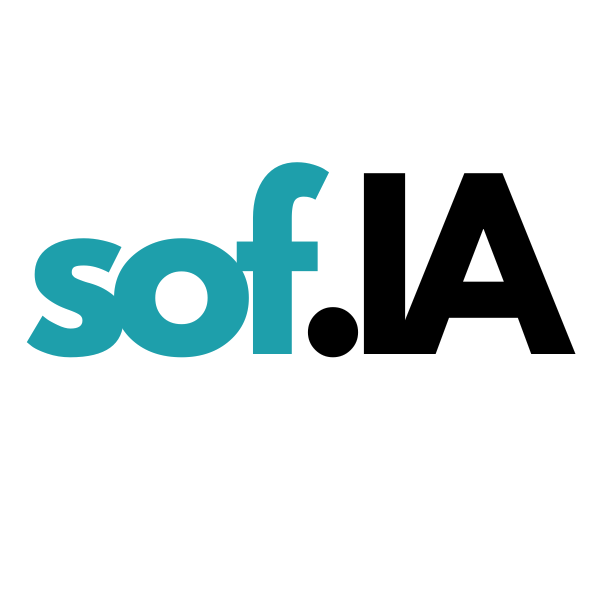
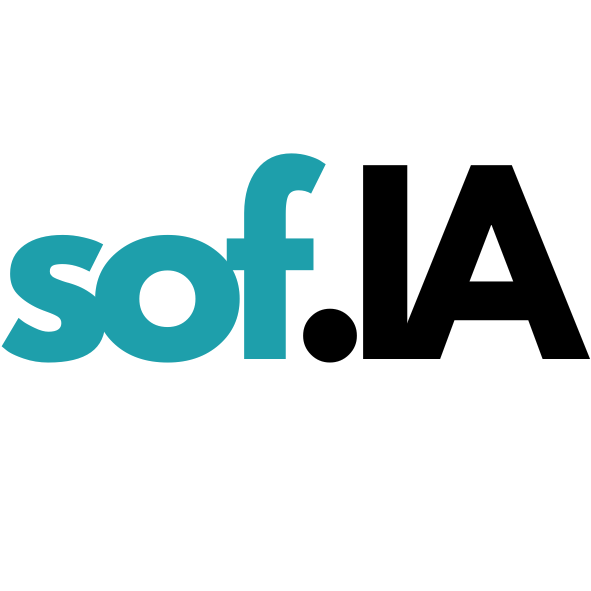
3

diff --git a/index.html b/index.html
@@ -8,7 +8,7 @@
     <!-- --------- CSS ---------- -->
     <link rel="stylesheet" href="assets/css/style.css">
     <!-- --------- FAVICON ---------- -->
-    <link rel="shortcut icon" href="assets/images/sofAI.png" type="image/x-icon">
+    <link rel="shortcut icon" href="assets/images/sof_AI.png" type="image/x-icon">
     <title>Portfolio | SofiaBosch</title>
 </head>
 <body>
@@ -16,8 +16,8 @@
     <!-- --------------- HEADER --------------- -->
       <nav id="header">
         <div class="nav-logo">
-            <p class="nav-name">Sof</p>
-            <span>.IA</span>
+            <p class="nav-name">Sof    IA</p>
+            <span>.</span>
             <!-- <p class="nav-name2">IA</p> -->
         </div>
         <div class="nav-menu" id="myNavMenu">
@@ -41,7 +41,7 @@
             </ul>
         </div>
         <div class="nav-button">
-            <button class="btn" href= "assets/pdf/ejemplo_cv.pdf">Download CV <i class="uil uil-file-alt"></i></button>
+            <button class="btn" href= "assets/pdf/ejemplo_cv.pdf"  dowload="CV_SofiaBosch">Download CV <i class="uil uil-file-alt"></i></button>
         </div>
         <div class="nav-menu-btn">
             <i class="uil uil-bars" onclick="myMenuFunction()"></i>
@@ -64,11 +64,11 @@
             </div>
             <div class="featured-text-btn">
                 <button class="btn blue-btn">Hire Me</button>
-                <button class="btn" href= "assets/pdf/ejemplo_cv.pdf">Download CV <i class="uil uil-file-alt"></i></button>
+                <button class="btn" href= "assets/pdf/ejemplo_cv.pdf" dowload="CV_SofiaBosch">Download CV <i class="uil uil-file-alt"></i></button>
             </div>
             <div class="social_icons">
                 <!-- <div class="icon"><i class="uil uil-instagram"></i></div> -->
-                <div class="icon"><i class="uil uil-linkedin-alt"></i></div>
+                <div class="icon"><i class="uil uil-linkedin-alt" href="www.linkedin.com/in/sofia-bosch-pastor-a764b5137"></i></div>
                 <!-- <div class="icon"><i class="uil uil-dribbble"></i></div> -->
                 <div class="icon"><i class="uil uil-github-alt"></i></div>
             </div>
@@ -124,22 +124,10 @@
                         <h3>Backend</h3>
                     </div>
                     <div class="skills-list">
-                        <span>PHP</span>
-                        <span>JAVA</span>
                         <span>Python</span>
-                        <span>C++</span>
                     </div>
                 </div>
-                <div class="skills-box">
-                    <div class="skills-header">
-                        <h3>Database</h3>
-                    </div>
-                    <div class="skills-list">
-                        <span>MySQL</span>
-                        <span>PostgreSQL</span>
-                        <span>MongoDB</span>
-                    </div>
-                </div>
+                
             </div>
           </div>
        </section>
